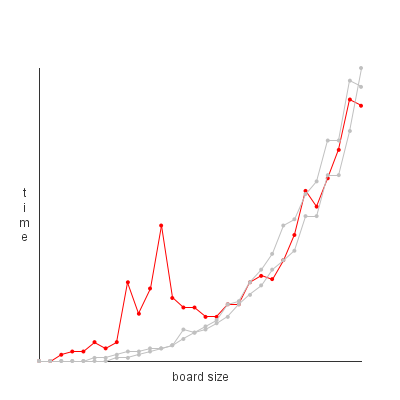
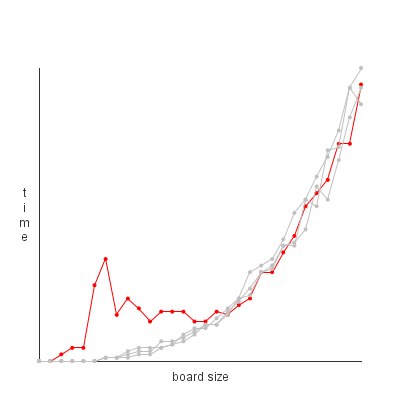
Updated flood3(). Add some tests in testing

diff --git a/p2/src/Board.java b/p2/src/Board.java
@@ -17,7 +17,7 @@ public class Board {
   private Map<Coord, Tile> inside, outside;
   private Map<Coord, Tile> newinside;  // For undo move
   private int size;
-  public WaterColor prevColor; // For undo move
+  private WaterColor prevColor; // For undo move
   private Map<WaterColor, Integer> colorCounts = new HashMap<>(); // For suggestion
   
   /**
@@ -96,15 +96,8 @@ public class Board {
 	  return false;
   }
   
-  /**
-   * TODO
-   * 
-   * Updates this board by changing the color of the current flood region 
-   * and extending its reach.
-   */
-  
-  public void flood(WaterColor color) {
-	  flood1(color);
+  public WaterColor getPrevColor(){ // For undo move
+	  return prevColor;
   }
   
   public void unflood(WaterColor color){ // For undo move
@@ -119,6 +112,17 @@ public class Board {
   /**
    * TODO
    * 
+   * Updates this board by changing the color of the current flood region 
+   * and extending its reach.
+   */
+  
+  public void flood(WaterColor color) {
+	  flood1(color);
+  }
+
+  /**
+   * TODO
+   * 
    * Explore a variety of algorithms for handling a flood. Use the same interface 
    * as for flood above, but add an index so your methods are named flood1,
    * flood2, ..., and so on. Then, use the batchTest() tool in Driver to run game
@@ -127,8 +131,10 @@ public class Board {
    * flood, including the one above that you eventually settle on, write a comment
    * that describes your algorithm in English. For those implementations that you
    * abandon, state your reasons. 
-   * 
-   * 
+   *    
+   */
+  
+  /*
    * My algorithm for flood1:
    * 
    * Each time flood1() is called, I start to check from the ORIGIN point. If the 
@@ -141,31 +147,20 @@ public class Board {
    * previous 2 cases, then just return (void).
    * 
    * During this process, I keeped a hashmap "visited" to keep track of which tiles 
-   * have been visited, so that next time I do not need to repeat the checkings.
+   * have been visited, so that next time I do not need to repeat the checks.
    * 
-   * Also, I added another hashmap newinside, which keeps track of the tiles that are 
+   * Added feature to the game: "undo move"
+   * I added another hashmap "newinside", which keeps track of the tiles that are 
    * newly added to inside from the last step. In this way, with the function
-   *  unflood(), I was able to add the feature "undo move" to our game. Just clicking  
+   * unflood(), I was able to add the feature "undo move" to our game. Just clicking  
    * Game -> Undo move in the menu would undo the last move.
    * 
-   * 
-   * 
-   * Why I choose flood1 instead of flood2:
-   * 
-   * The earlier version flood2 would flood the area first by only checking the colors
-   * of the tiles, in a second step, resweep the flooded area and update inside. The
-   * complexities of flood2 and flood1 are similar. But, by combining the color change
-   * and updating "inside" in just ONE sweep, some running time has been saved. 
-   * For example, in flood2, for each tile, (roughly speaking) we calculate its 
-   * neighbor coordinates TWICE, while in flood1, we only need to do ONCE. Therefore, 
-   * flood1 is more efficient than flood2. Thus, I kept this version of flood.
-   *    
-   */
+   * */
   
   public void flood1(WaterColor color) {
 	  HashSet<Coord> visited = new HashSet<>();
 	  newinside.clear(); // For undo move
-	  prevColor = get(Coord.ORIGIN).getColor();
+	  prevColor = get(Coord.ORIGIN).getColor(); // For undo move
 	  floodNeighbor(Coord.ORIGIN, color, visited);
   }
   
@@ -184,14 +179,25 @@ public class Board {
 	  }
 	  
 	  List<Coord> nb = coord.neighbors(size);
-	  for (int i = 0; i < 4; i++){
-		  Coord p = nb.get(i);
+	  for (Coord p : nb){
 		  if (p != null && !visited.contains(p)){
 			  floodNeighbor(p, newColor, visited);
 		  }
 	  }
   }
   
+  /*
+  * Why I choose flood1 instead of flood2:
+  * 
+  * The earlier version flood2 would flood the area first by ONLY checking the colors
+  * of the tiles, in a second step, resweep the flooded area and update inside. The
+  * complexities of flood2 and flood1 are similar. But, by combining the color change
+  * and updating "inside" in just ONE sweep, some running time has been saved. 
+  * For example, in flood2, for each tile, (roughly speaking) we calculate its 
+  * neighbor coordinates TWICE, while in flood1, we only need to do ONCE. Therefore, 
+  * flood1 is more efficient than flood2. Thus, I kept this version of flood.
+  * 
+  * */
   
   public void flood2(WaterColor color) {
 	  HashSet<Coord> visited = new HashSet<>();
@@ -238,6 +244,60 @@ public class Board {
 		  }
 	  }
   }
+  
+  /*
+   * Flood3: Non-recursive method
+   * 
+   * Why I choose flood1 instead of flood3:
+   * Flood3() is a NON-recursive method. To update the set "inside", I keep sweeping "inside" 
+   * and for each of the tiles, I check if any of its neighbors should be updated to "inside". 
+   * But in order to efficiently update the set "inside", I had to keep a new hashset "ninside"
+   * to track the one I just added to "inside". This way, next time I sweep, I do not need to 
+   * sweep the whole "inside" set, and instead I just need to sweep the "ninside" part.
+   * 
+   * Although the running time should be comparable to flood1(), I feel that the "ninside" set
+   * is an extra cost on storage. Also, the recursive algorithm of flood1 is much simpler to 
+   * write. Thus, I decided to use flood1 instead of flood3.
+   * 
+   * Note: this method flood3 has not been updated to work with the "undo move" feature.
+   * 
+   * */
+  
+  public void flood3(WaterColor color) {
+	  for (Coord k : inside.keySet()){
+		  get(k).setColor(color);
+	  }
+	  HashSet<Coord> ninside = new HashSet<>();
+	  for (Coord k : inside.keySet()){
+		  ninside.add(k);
+	  }	  
+	  
+	  while(ninside.size() != 0)
+		  ninside = flood3Helper(color, ninside);
+  }
+  
+  // flood3 helper: Updating the inside set
+  public HashSet<Coord> flood3Helper(WaterColor currColor, HashSet<Coord> ninside){
+	  HashSet<Coord> ninsidetemp = new HashSet<>();
+	  for (Coord k : ninside){
+		  ninsidetemp.add(k);
+	  }
+	  for (Coord k : ninsidetemp){
+		  ninside.remove(k);
+		  List<Coord> nb = k.neighbors(size);
+		  for (Coord p : nb){
+			  if (p != null && !inside.containsKey(p) ){
+				  if (get(p).getColor() == currColor){
+					  inside.put(p, get(p));
+					  outside.remove(p);
+					  ninside.add(p);
+				  } 					  
+			  }
+		  }
+	  }
+	  return ninside; 
+  }
+
   
   
   /**
@@ -306,6 +366,22 @@ public class Board {
       ans.append("\n");
     }
     return ans.toString();
+  }
+  
+  
+  public void testSetFull(){ // For testing fullyFlooded
+	  for( Coord p : outside.keySet() ){
+		  get(p).setColor(WaterColor.BLUE);
+		  inside.put(p, get(p));
+	  }
+	  outside.clear();
+  }
+  
+  public void testMyBoard1(){
+	  for( Coord p : inside.keySet() )
+		  get(p).setColor(WaterColor.BLUE);
+	  for( Coord p : outside.keySet() )
+		  get(p).setColor(WaterColor.RED);	  
   }
   
   /**

diff --git a/p2/src/Testing.java b/p2/src/Testing.java
@@ -13,5 +13,21 @@ public class Testing {
     assertFalse(new Coord(3, 4).onBoard(4));
     assertTrue(new Coord(3, 4).onBoard(5));
   }
+  
+  @Test
+  public void testFullyFlooded(){
+	  Board myboard = new Board(5);
+	  myboard.testSetFull();
+	  assertTrue( myboard.fullyFlooded() );
+  }
+  
+  @Test
+  public void testFlood1(){
+	  Board myboard = new Board(10);
+	  myboard.testMyBoard1();
+	  myboard.flood1(WaterColor.RED);
+	  assertTrue( myboard.fullyFlooded() );
+  }
+  
 
 }

diff --git a/p2/src/Constants.java b/p2/src/Constants.java
@@ -11,6 +11,6 @@ public class Constants {
   public static final int MAX_DIM = 101;
   public static final String TEST_GRAPH = "results.png";
   
-  public static final int DEFAULT_SIZE = 20;
+  public static final int DEFAULT_SIZE = 14;
 }
 

diff --git a/p2/src/Game.java b/p2/src/Game.java
@@ -120,7 +120,7 @@ public class Game {
    */
   
   public void undomove(){ // For testing CJ
-	  board.unflood(board.prevColor);
+	  board.unflood(board.getPrevColor());
 	  currentStep--;
 	  theView.setSteps();
 	  theView.repaint();
